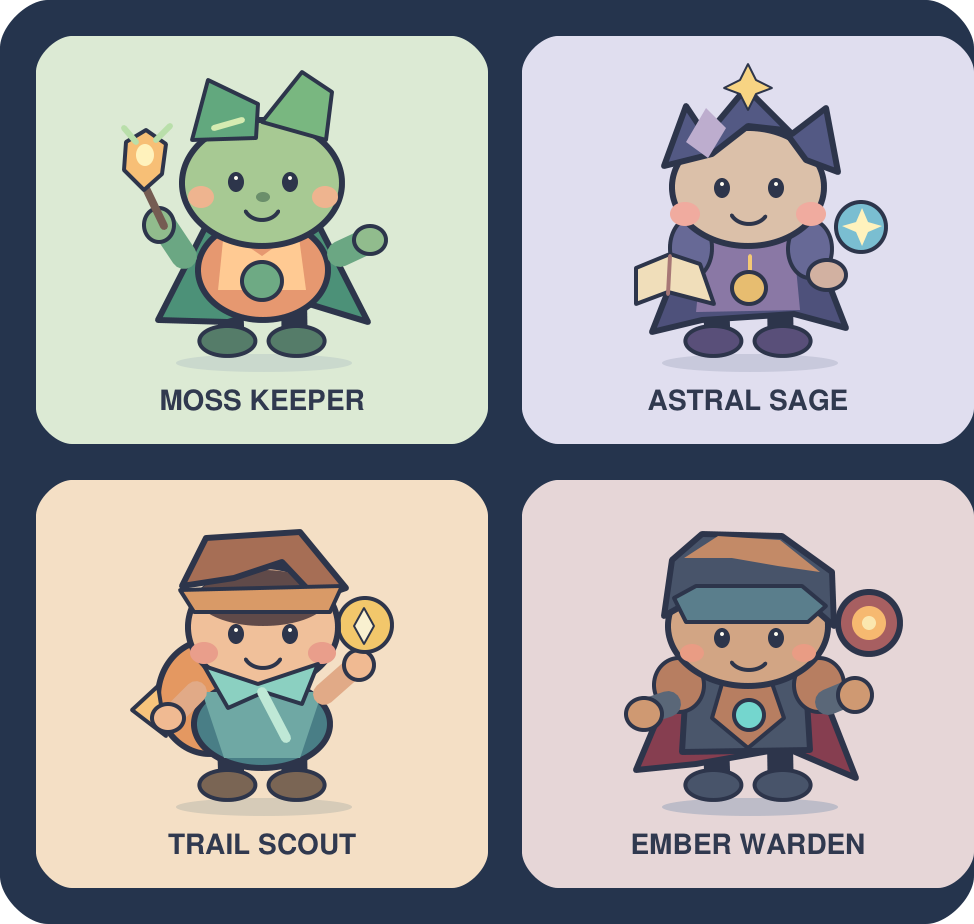
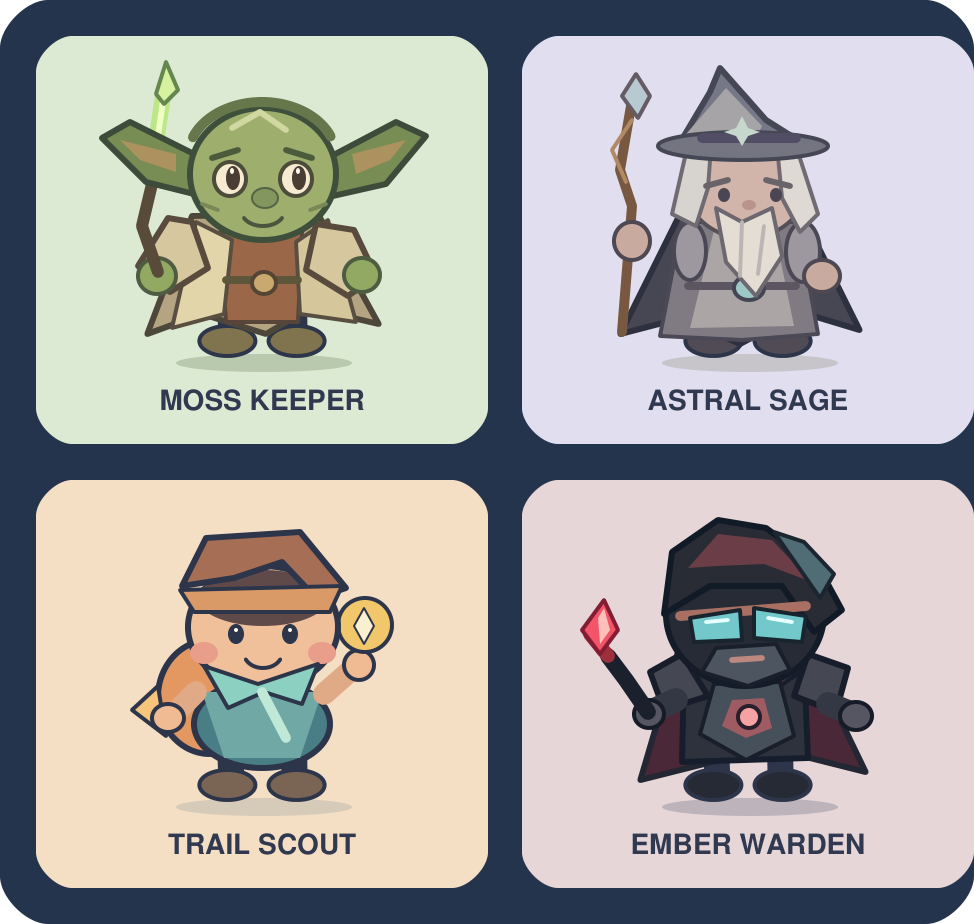
Redesign three storybook pets closer to references

Changed region(s): [[0.0924, 0.0606, 0.4312, 0.4242], [0.616, 0.0606, 0.924, 0.3939], [0.5852, 0.5455, 0.924, 0.8788]]

diff --git a/storybook_art.py b/storybook_art.py
@@ -1,0 +1,194 @@
+"""Three original, more detailed storybook desktop-pet designs."""
+
+from __future__ import annotations
+
+import tkinter as tk
+
+from fantasy_art import INK, _feet, _shadow
+
+
+def draw_moss_keeper(
+    c: tk.Canvas, bob: float, stride: float, blink: bool, facing: int, jumping: bool
+) -> None:
+    """A small olive forest elder in layered travel robes with a crystal vine."""
+    y = -bob
+    _shadow(c, jumping, "#b9c9ad")
+    _feet(c, y, stride, jumping, "#7f744d")
+    # Pale wrap, warm undershirt and split leaf-lined travelling cloak.
+    c.create_polygon(57, 86+y, 120, 85+y, 149+stride*3, 140+y,
+                     116, 132+y, 94, 145+y, 62, 135+y, 36-stride*3, 145+y,
+                     fill="#b5a481", outline="#4d473b", width=3)
+    c.create_polygon(71, 94+y, 112, 94+y, 110, 139+y, 74, 139+y,
+                     fill="#9a6848", outline="#584438", width=2)
+    c.create_polygon(59, 89+y, 77, 98+y, 73, 135+y, 47, 142+y,
+                     fill="#e2d5aa", outline="#594f41", width=2)
+    c.create_polygon(125, 88+y, 109, 99+y, 111, 135+y, 139, 139+y,
+                     fill="#d6c69b", outline="#594f41", width=2)
+    c.create_line(74, 118+y, 110, 118+y, fill="#5d563b", width=4)
+    c.create_oval(87, 114+y, 99, 125+y, fill="#c9a96d", outline="#544535", width=2)
+    # Broad sleeves, compact hands and the raised arm holding a luminous vine.
+    c.create_polygon(57, 89+y, 45, 87+y, 30, 111+y, 46, 124+y,
+                     65, 112+y, fill="#d6c79e", outline="#584b3e", width=3)
+    c.create_polygon(119, 90+y, 138, 93+y, 149, 116+y, 135, 126+y,
+                     114, 113+y, fill="#d6c79e", outline="#584b3e", width=3)
+    c.create_oval(30, 107+y, 49, 125+y, fill="#92a963", outline="#4e5d42", width=2)
+    c.create_oval(133, 107+y, 151, 124+y, fill="#92a963", outline="#4e5d42", width=2)
+    # Its crooked branch ends in an irregular pale crystal, never a straight blade.
+    c.create_line(40, 114+y, 32, 91+y, 37, 70+y, 39, 49+y,
+                  fill="#594b39", width=6, smooth=True, capstyle=tk.ROUND)
+    c.create_line(39, 49+y, 43, 23+y, fill="#bce787", width=8, capstyle=tk.ROUND)
+    c.create_line(40, 46+y, 43, 25+y, fill="#efffc4", width=3, capstyle=tk.ROUND)
+    c.create_polygon(39, 25+y, 44, 9+y, 50, 23+y, 43, 30+y,
+                     fill="#d6f2a0", outline="#668650", width=2)
+    c.create_polygon(36, 60+y, 25, 55+y, 34, 48+y,
+                     fill="#77ab62", outline="#506846", width=2)
+    # Wide swept ears and a low hood frame a broad, old face.
+    c.create_polygon(62, 57+y, 26, 39+y, 12, 47+y, 34, 69+y, 62, 76+y,
+                     fill="#778d54", outline="#3d4b3a", width=3)
+    c.create_polygon(123, 58+y, 159, 39+y, 174, 46+y, 154, 70+y, 123, 77+y,
+                     fill="#778d54", outline="#3d4b3a", width=3)
+    c.create_polygon(21, 48+y, 49, 55+y, 49, 64+y, 31, 58+y,
+                     fill="#ac925f", outline="")
+    c.create_polygon(164, 48+y, 137, 55+y, 139, 65+y, 156, 58+y,
+                     fill="#ac925f", outline="")
+    c.create_oval(56, 32+y, 129, 98+y, fill="#9dae6d", outline="#3e503c", width=3)
+    c.create_arc(55, 29+y, 129, 84+y, start=22, extent=137,
+                 style=tk.ARC, outline="#65774b", width=5)
+    c.create_line(77, 42+y, 91, 34+y, 104, 43+y, fill="#d0d7a0", width=3, smooth=True)
+    c.create_line(67, 57+y, 80, 53+y, fill="#4c5b3c", width=3)
+    c.create_line(104, 53+y, 117, 57+y, fill="#4c5b3c", width=3)
+    for x in (76, 109):
+        if blink:
+            c.create_line(x-6, 68+y, x+6, 68+y, fill="#3e4938", width=3)
+        else:
+            c.create_oval(x-8, 59+y, x+8, 76+y, fill="#f6ead1", outline="#4b4c3a", width=2)
+            c.create_oval(x-3+facing, 61+y, x+4+facing, 73+y,
+                          fill="#493d34", outline="")
+            c.create_oval(x-1+facing, 62+y, x+1+facing, 65+y,
+                          fill="#fff9ec", outline="")
+    c.create_oval(87, 72+y, 100, 82+y, fill="#82965d", outline="#556446", width=1)
+    c.create_arc(82, 77+y, 103, 91+y, start=205, extent=130,
+                 style=tk.ARC, outline="#4a543e", width=2)
+    c.create_line(62, 80+y, 70, 83+y, fill="#7a8859", width=2)
+    c.create_line(116, 83+y, 124, 80+y, fill="#7a8859", width=2)
+
+
+def draw_astral_sage(
+    c: tk.Canvas, bob: float, stride: float, blink: bool, facing: int, jumping: bool
+) -> None:
+    """A silver-haired star mapper with layered grey cloak and knotwood staff."""
+    y = -bob
+    _shadow(c, jumping, "#c7c5ca")
+    _feet(c, y, stride, jumping, "#514b56")
+    # Sweeping cloak is brighter inside and moves slightly with each stride.
+    c.create_polygon(63, 75+y, 115, 77+y, 146+stride*4, 143+y,
+                     118, 134+y, 88, 150+y, 59, 137+y, 30-stride*4, 145+y,
+                     fill="#474653", outline="#2d303f", width=3)
+    c.create_polygon(59, 89+y, 117, 89+y, 127, 145+y, 89, 148+y,
+                     48, 146+y, fill="#807b83", outline="#4b4955", width=2)
+    c.create_polygon(75, 93+y, 105, 92+y, 115, 141+y, 63, 142+y,
+                     fill="#aba5a5", outline="")
+    c.create_polygon(76, 94+y, 91, 109+y, 103, 94+y,
+                     fill="#665b75", outline="")
+    c.create_line(62, 121+y, 116, 121+y, fill="#5c5662", width=4)
+    c.create_oval(85, 116+y, 100, 128+y, fill="#9ec8c6", outline="#454454", width=2)
+    # Staff and sleeve are drawn behind the hair and beard.
+    c.create_line(29, 144+y, 34, 81+y, 28, 63+y, 34, 28+y,
+                  fill="#785841", width=5, smooth=True, capstyle=tk.ROUND)
+    c.create_line(31, 69+y, 24, 53+y, 34, 38+y,
+                  fill="#b18a65", width=2, smooth=True)
+    c.create_polygon(29, 26+y, 36, 15+y, 43, 26+y, 37, 37+y,
+                     fill="#b9c9d2", outline="#655b64", width=2)
+    c.create_oval(55, 89+y, 71, 118+y, fill="#9d98a0", outline="#4b4855", width=2)
+    c.create_oval(111, 89+y, 128, 119+y, fill="#9d98a0", outline="#4b4855", width=2)
+    c.create_oval(25, 89+y, 43, 108+y, fill="#c9aa9e", outline="#4d4852", width=2)
+    c.create_oval(120, 108+y, 138, 124+y, fill="#c9aa9e", outline="#4d4852", width=2)
+    # Small visible face, wind-swept silver hair and a tapered beard.
+    c.create_oval(61, 45+y, 121, 97+y, fill="#d2b5aa", outline="#554f57", width=2)
+    c.create_polygon(62, 50+y, 54, 85+y, 66, 91+y, 72, 72+y,
+                     74, 45+y, fill="#d7d3ce", outline="#706a72", width=2)
+    c.create_polygon(115, 48+y, 127, 85+y, 118, 94+y, 109, 77+y,
+                     106, 46+y, fill="#ded9d3", outline="#706a72", width=2)
+    c.create_polygon(76, 82+y, 89, 89+y, 104, 82+y, 109, 106+y,
+                     96, 126+y, 81, 109+y, fill="#e3ddd3", outline="#6d6870", width=2)
+    c.create_line(89, 89+y, 88, 116+y, fill="#bbb5b5", width=2)
+    c.create_line(100, 91+y, 97, 115+y, fill="#bbb5b5", width=2)
+    c.create_line(71, 71+y, 82, 68+y, fill="#69636a", width=3)
+    c.create_line(101, 68+y, 113, 71+y, fill="#69636a", width=3)
+    for x in (79, 105):
+        if blink:
+            c.create_line(x-4, 76+y, x+4, 76+y, fill="#4b4653", width=2)
+        else:
+            c.create_oval(x-3+facing, 72+y, x+3+facing, 79+y,
+                          fill="#4b4653", outline="")
+    c.create_oval(89, 78+y, 96, 83+y, fill="#b9948c", outline="")
+    # Offset slate hat, curved brim and an eight-point compass emblem.
+    c.create_polygon(57, 51+y, 73, 24+y, 78, 12+y, 101, 38+y,
+                     120, 50+y, fill="#777887", outline="#454754", width=3)
+    c.create_polygon(61, 45+y, 81, 22+y, 99, 41+y, 96, 47+y,
+                     fill="#a6a4a7", outline="")
+    c.create_oval(47, 44+y, 132, 58+y, fill="#747581", outline="#454754", width=2)
+    c.create_line(69, 47+y, 116, 47+y, fill="#514d65", width=5)
+    c.create_polygon(89, 36+y, 92, 42+y, 98, 44+y, 92, 46+y,
+                     89, 51+y, 86, 46+y, 80, 44+y, 86, 42+y,
+                     fill="#c6d7cd", outline="")
+
+
+def draw_ember_warden(
+    c: tk.Canvas, bob: float, stride: float, blink: bool, facing: int, jumping: bool
+) -> None:
+    """A charcoal comet knight with a red crystal torch and asymmetric helm."""
+    y = -bob
+    _shadow(c, jumping, "#bdb3bb")
+    _feet(c, y, stride, jumping, "#262a35")
+    c.create_polygon(57, 82+y, 120, 78+y, 149+stride*4, 142+y,
+                     119, 134+y, 78, 136+y, 40-stride*4, 146+y,
+                     fill="#4b2837", outline="#232733", width=3)
+    c.create_polygon(60, 89+y, 120, 88+y, 122, 135+y, 59, 137+y,
+                     fill="#2d323c", outline="#161d2c", width=3)
+    c.create_polygon(62, 88+y, 79, 78+y, 108, 78+y, 124, 88+y,
+                     108, 99+y, 77, 98+y, fill="#61404c", outline="#171e2b", width=2)
+    c.create_polygon(75, 98+y, 108, 97+y, 115, 124+y, 91, 136+y,
+                     68, 123+y, fill="#46505a", outline="#191e2b", width=2)
+    c.create_polygon(84, 106+y, 100, 105+y, 104, 120+y, 91, 125+y,
+                     79, 119+y, fill="#9e5b62", outline="")
+    c.create_oval(87, 109+y, 98, 120+y, fill="#f6a1a2", outline="#291e2b", width=2)
+    # Segmented shoulder plates and gauntlets.
+    c.create_polygon(59, 83+y, 43, 92+y, 50, 111+y, 72, 104+y,
+                     fill="#454753", outline="#171d2b", width=3)
+    c.create_polygon(122, 83+y, 142, 90+y, 136, 112+y, 115, 104+y,
+                     fill="#454753", outline="#171d2b", width=3)
+    c.create_line(56, 106+y, 43, 112+y, fill="#343844", width=12, capstyle=tk.ROUND)
+    c.create_line(132, 108+y, 147, 114+y, fill="#343844", width=12, capstyle=tk.ROUND)
+    c.create_oval(35, 106+y, 50, 120+y, fill="#555662", outline="#151b27", width=2)
+    c.create_oval(138, 107+y, 154, 121+y, fill="#555662", outline="#151b27", width=2)
+    # Hand-held faceted signal crystal, angled like a short glowing torch.
+    c.create_line(42, 112+y, 31, 96+y, 22, 84+y,
+                  fill="#1b202d", width=8, capstyle=tk.ROUND)
+    c.create_line(22, 84+y, 13, 73+y, fill="#9e303e", width=7, capstyle=tk.ROUND)
+    c.create_polygon(9, 71+y, 20, 56+y, 27, 71+y, 18, 83+y,
+                     fill="#f35468", outline="#821d34", width=2)
+    c.create_polygon(17, 65+y, 20, 60+y, 23, 71+y, 18, 78+y,
+                     fill="#ffc0bb", outline="")
+    # Curved helmet with offset fin, copper brow and a split turquoise visor.
+    c.create_oval(51, 27+y, 130, 99+y, fill="#262b35", outline="#141b29", width=3)
+    c.create_polygon(50, 63+y, 54, 32+y, 77, 16+y, 101, 20+y,
+                     127, 39+y, 139, 61+y, 125, 72+y, 109, 49+y,
+                     73, 49+y, fill="#292c34", outline="#111a27", width=3)
+    c.create_polygon(62, 40+y, 77, 23+y, 104, 26+y, 124, 47+y,
+                     100, 38+y, 76, 39+y, fill="#6b3d46", outline="")
+    c.create_polygon(105, 22+y, 120, 27+y, 135, 43+y, 128, 55+y,
+                     fill="#506c74", outline="#1b2630", width=2)
+    c.create_line(58, 64+y, 121, 59+y, fill="#a96f62", width=5)
+    c.create_polygon(63, 65+y, 88, 61+y, 89, 76+y, 65, 77+y,
+                     fill="#72c8ca", outline="#18252e", width=2)
+    c.create_polygon(95, 60+y, 121, 64+y, 119, 77+y, 95, 75+y,
+                     fill="#72c8ca", outline="#18252e", width=2)
+    c.create_line(70+facing, 67+y, 81+facing, 66+y, fill="#e5ffff", width=2)
+    c.create_line(101+facing, 65+y, 113+facing, 67+y, fill="#e5ffff", width=2)
+    if blink:
+        c.create_line(68, 71+y, 83, 70+y, fill="#21313b", width=3)
+        c.create_line(99, 69+y, 115, 71+y, fill="#21313b", width=3)
+    c.create_polygon(76, 80+y, 106, 78+y, 113, 91+y, 92, 99+y,
+                     69, 92+y, fill="#4c5560", outline="#1a202b", width=2)
+    c.create_line(84, 86+y, 99, 85+y, fill="#bd8880", width=3)

diff --git a/fantasy_art.py b/fantasy_art.py
@@ -40,90 +40,6 @@ def _eyes(c: tk.Canvas, y: float, blink: bool, facing: int, color: str = INK) ->
             c.create_oval(x - 2 + facing, y - 3, x + facing, y - 1, fill="#fffdf2", outline="")
 
 
-def draw_moss_keeper(
-    c: tk.Canvas, bob: float, stride: float, blink: bool, facing: int, jumping: bool
-) -> None:
-    """A round moss sprite carrying a warm seed lantern."""
-    y = -bob
-    _shadow(c, jumping, "#cad9cd")
-    _feet(c, y, stride, jumping, "#557c69")
-    # Leaf cape, small satchel, and coral seed-pod tunic.
-    c.create_polygon(65, 89+y, 119, 88+y, 145, 139+y, 109, 128+y,
-                     75, 139+y, 40, 138+y, fill="#4c9178", outline=INK, width=3)
-    c.create_line(93, 109+y, 93, 137+y, fill="#bce0a6", width=2)
-    c.create_oval(60, 88+y, 125, 138+y, fill="#e69870", outline=INK, width=3)
-    c.create_polygon(73, 93+y, 92, 106+y, 110, 93+y, 114, 123+y,
-                     70, 123+y, fill="#ffca93", outline="")
-    c.create_oval(82, 109+y, 102, 128+y, fill="#6eaa84", outline=INK, width=2)
-    c.create_line(53, 106+y, 41, 88+y, fill="#6ba783", width=13, capstyle=tk.ROUND)
-    c.create_line(131, 105+y, 146, 98+y, fill="#6ba783", width=13, capstyle=tk.ROUND)
-    c.create_oval(33, 82+y, 48, 99+y, fill="#91bc8d", outline=INK, width=2)
-    c.create_oval(138, 91+y, 154, 105+y, fill="#91bc8d", outline=INK, width=2)
-    # A lantern on a bent twig, with petals rather than a blade.
-    c.create_line(43, 91+y, 32, 68+y, 36, 58+y, fill="#755c52", width=4, capstyle=tk.ROUND)
-    c.create_polygon(24, 49+y, 34, 43+y, 44, 50+y, 42, 65+y,
-                     33, 73+y, 23, 63+y, fill="#f7bf76", outline=INK, width=2)
-    c.create_oval(29, 50+y, 38, 61+y, fill="#fff2bc", outline="")
-    c.create_line(29, 49+y, 23, 42+y, fill="#b9dfaa", width=3)
-    c.create_line(39, 48+y, 46, 41+y, fill="#b9dfaa", width=3)
-    # Rounded pebble face and one asymmetric seed crest.
-    c.create_oval(52, 38+y, 132, 101+y, fill="#a7c993", outline=INK, width=3)
-    c.create_polygon(57, 48+y, 65, 18+y, 90, 30+y, 89, 47+y,
-                     fill="#62a87e", outline=INK, width=2)
-    c.create_polygon(92, 39+y, 112, 14+y, 127, 24+y, 124, 48+y,
-                     fill="#79b780", outline=INK, width=2)
-    c.create_line(68, 42+y, 82, 38+y, fill="#d5ebb1", width=3)
-    c.create_oval(55, 71+y, 68, 82+y, fill="#eeb48f", outline="")
-    c.create_oval(117, 71+y, 130, 82+y, fill="#eeb48f", outline="")
-    _eyes(c, 69+y, blink, facing)
-    c.create_oval(89, 74+y, 96, 79+y, fill="#6b8f6b", outline="")
-    c.create_arc(83, 73+y, 101, 88+y, start=205, extent=130,
-                 style=tk.ARC, outline=INK, width=2)
-
-
-def draw_astral_sage(
-    c: tk.Canvas, bob: float, stride: float, blink: bool, facing: int, jumping: bool
-) -> None:
-    """A young sky-chart keeper with a crescent cowl and floating star globe."""
-    y = -bob
-    _shadow(c, jumping, "#c8c9dc")
-    _feet(c, y, stride, jumping, "#594f79")
-    c.create_polygon(66, 88+y, 120, 88+y, 141, 142+y, 115, 135+y,
-                     69, 138+y, 44, 144+y, fill="#4e517b", outline=INK, width=3)
-    c.create_polygon(70, 93+y, 95, 102+y, 114, 91+y, 118, 133+y,
-                     66, 134+y, fill="#8a78a5", outline="")
-    c.create_line(93, 106+y, 93, 129+y, fill="#f5c975", width=2)
-    c.create_oval(84, 114+y, 101, 130+y, fill="#e7bd70", outline=INK, width=2)
-    c.create_oval(53, 87+y, 74, 117+y, fill="#676996", outline=INK, width=2)
-    c.create_oval(112, 88+y, 134, 117+y, fill="#676996", outline=INK, width=2)
-    c.create_oval(49, 108+y, 68, 123+y, fill="#d2b1a1", outline=INK, width=2)
-    c.create_oval(122, 108+y, 141, 123+y, fill="#d2b1a1", outline=INK, width=2)
-    # A small star chart held open; the orb drifts above the other hand.
-    c.create_polygon(36, 112+y, 53, 105+y, 68, 110+y, 75, 130+y,
-                     52, 124+y, 36, 130+y, fill="#f0deba", outline=INK, width=2)
-    c.create_line(53, 106+y, 52, 125+y, fill="#a77776", width=2)
-    c.create_oval(136, 79+y, 161, 104+y, fill="#7abed1", outline=INK, width=2)
-    c.create_polygon(149, 82+y, 152, 89+y, 159, 91+y, 152, 94+y,
-                     149, 101+y, 146, 94+y, 139, 91+y, 146, 89+y,
-                     fill="#fff2bd", outline="")
-    c.create_oval(54, 42+y, 130, 101+y, fill="#dbc0a9", outline=INK, width=3)
-    # Collar makes an astral crescent, not a pointed hat or long beard.
-    c.create_polygon(50, 61+y, 61, 31+y, 71, 46+y, 91, 22+y,
-                     114, 45+y, 131, 32+y, 137, 64+y, 121, 58+y,
-                     110, 43+y, 92, 41+y, 74, 55+y,
-                     fill="#535984", outline=INK, width=3)
-    c.create_polygon(61, 49+y, 71, 32+y, 81, 42+y, 72, 57+y,
-                     fill="#bdadce", outline="")
-    c.create_oval(53, 79+y, 68, 91+y, fill="#f0ab9f", outline="")
-    c.create_oval(116, 79+y, 131, 91+y, fill="#f0ab9f", outline="")
-    _eyes(c, 72+y, blink, facing)
-    c.create_arc(83, 75+y, 102, 90+y, start=205, extent=125,
-                 style=tk.ARC, outline=INK, width=2)
-    c.create_polygon(88, 18+y, 92, 10+y, 96, 18+y, 104, 22+y,
-                     96, 25+y, 92, 33+y, 88, 25+y, 80, 22+y,
-                     fill="#f7d483", outline=INK, width=1)
-
-
 def draw_trail_scout(
     c: tk.Canvas, bob: float, stride: float, blink: bool, facing: int, jumping: bool
 ) -> None:
@@ -160,42 +76,3 @@ def draw_trail_scout(
     c.create_polygon(63, 89+y, 90, 98+y, 120, 88+y, 112, 108+y,
                      93, 102+y, 75, 110+y, fill="#8bd0c1", outline=INK, width=2)
     c.create_line(92, 102+y, 104, 125+y, fill="#bfe8d6", width=5)
-
-
-def draw_ember_warden(
-    c: tk.Canvas, bob: float, stride: float, blink: bool, facing: int, jumping: bool
-) -> None:
-    """A night-sky sentinel with a bronze crescent helm and shield glow."""
-    y = -bob
-    _shadow(c, jumping, "#bdbcc8")
-    _feet(c, y, stride, jumping, "#48546a")
-    c.create_polygon(62, 79+y, 121, 81+y, 146, 145+y, 111, 130+y,
-                     66, 138+y, 36, 141+y, fill="#863e50", outline=INK, width=3)
-    c.create_polygon(62, 82+y, 120, 82+y, 123, 131+y, 59, 132+y,
-                     fill="#4a566b", outline=INK, width=3)
-    c.create_polygon(81, 91+y, 101, 89+y, 110, 115+y, 92, 130+y,
-                     74, 115+y, fill="#b77e61", outline=INK, width=2)
-    c.create_oval(85, 106+y, 100, 121+y, fill="#74d6ce", outline=INK, width=2)
-    c.create_oval(45, 85+y, 70, 112+y, fill="#b77e61", outline=INK, width=2)
-    c.create_oval(115, 85+y, 140, 112+y, fill="#b77e61", outline=INK, width=2)
-    c.create_line(52, 108+y, 37, 113+y, fill="#5a6778", width=13, capstyle=tk.ROUND)
-    c.create_line(132, 107+y, 144, 102+y, fill="#5a6778", width=13, capstyle=tk.ROUND)
-    c.create_oval(31, 105+y, 49, 121+y, fill="#cf9972", outline=INK, width=2)
-    c.create_oval(137, 95+y, 154, 112+y, fill="#cf9972", outline=INK, width=2)
-    # Small round signal shield: no energy blade or franchise helmet mask.
-    c.create_oval(137, 52+y, 168, 83+y, fill="#a75f61", outline=INK, width=3)
-    c.create_oval(144, 59+y, 161, 76+y, fill="#f6b970", outline="")
-    c.create_oval(149, 64+y, 156, 71+y, fill="#fbe7af", outline="")
-    c.create_oval(52, 39+y, 132, 99+y, fill="#d2a584", outline=INK, width=3)
-    c.create_polygon(50, 64+y, 54, 36+y, 69, 23+y, 109, 24+y,
-                     134, 42+y, 135, 69+y, 119, 55+y, 66, 55+y,
-                     fill="#48546a", outline=INK, width=3)
-    c.create_polygon(60, 35+y, 77, 24+y, 108, 26+y, 128, 42+y,
-                     107, 39+y, 84, 35+y, fill="#c38a67", outline="")
-    c.create_polygon(55, 55+y, 66, 49+y, 119, 49+y, 131, 59+y,
-                     122, 67+y, 61, 67+y, fill="#5a7e8c", outline=INK, width=2)
-    c.create_oval(58, 78+y, 70, 87+y, fill="#e99c84", outline="")
-    c.create_oval(114, 78+y, 126, 87+y, fill="#e99c84", outline="")
-    _eyes(c, 75+y, blink, facing)
-    c.create_arc(83, 78+y, 102, 91+y, start=205, extent=125,
-                 style=tk.ARC, outline=INK, width=2)

diff --git a/desktop_pet.py b/desktop_pet.py
@@ -10,11 +10,11 @@ import time
 import tkinter as tk
 from ctypes import wintypes
 
-from fantasy_art import (
+from fantasy_art import draw_trail_scout
+from storybook_art import (
     draw_astral_sage,
     draw_ember_warden,
     draw_moss_keeper,
-    draw_trail_scout,
 )
 from pet_motion import FlightMotion, JumpMotion, PetMotion
 

diff --git a/make_preview.py b/make_preview.py
@@ -8,11 +8,11 @@ from pathlib import Path
 from types import SimpleNamespace
 
 from desktop_pet import DesktopPet
-from fantasy_art import (
+from fantasy_art import draw_trail_scout
+from storybook_art import (
     draw_astral_sage,
     draw_ember_warden,
     draw_moss_keeper,
-    draw_trail_scout,
 )
 
 
